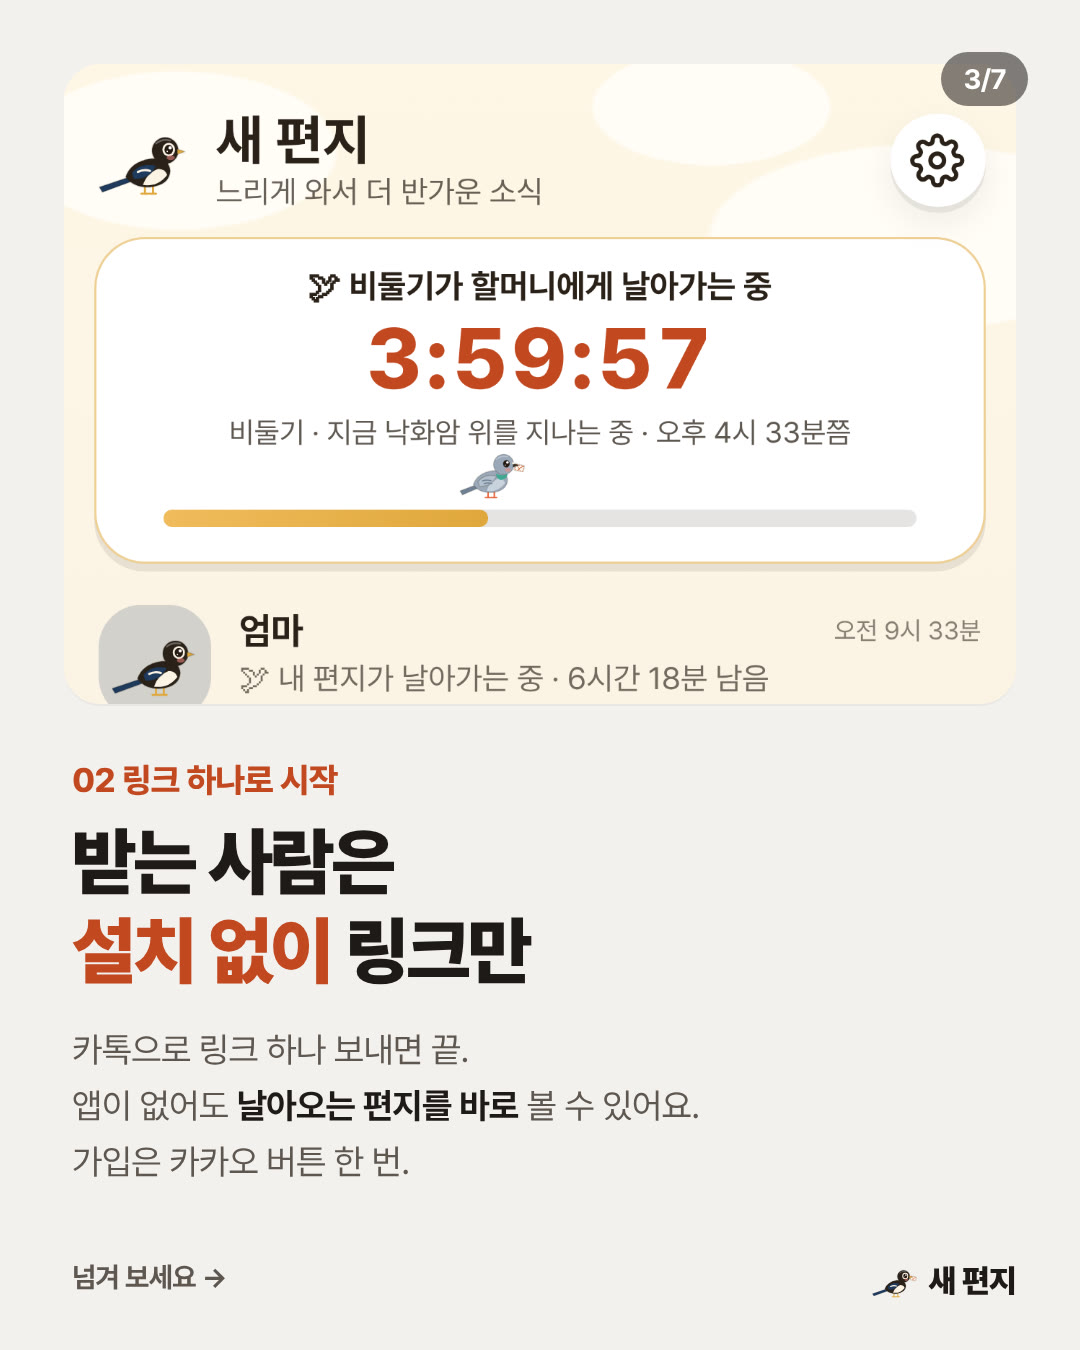
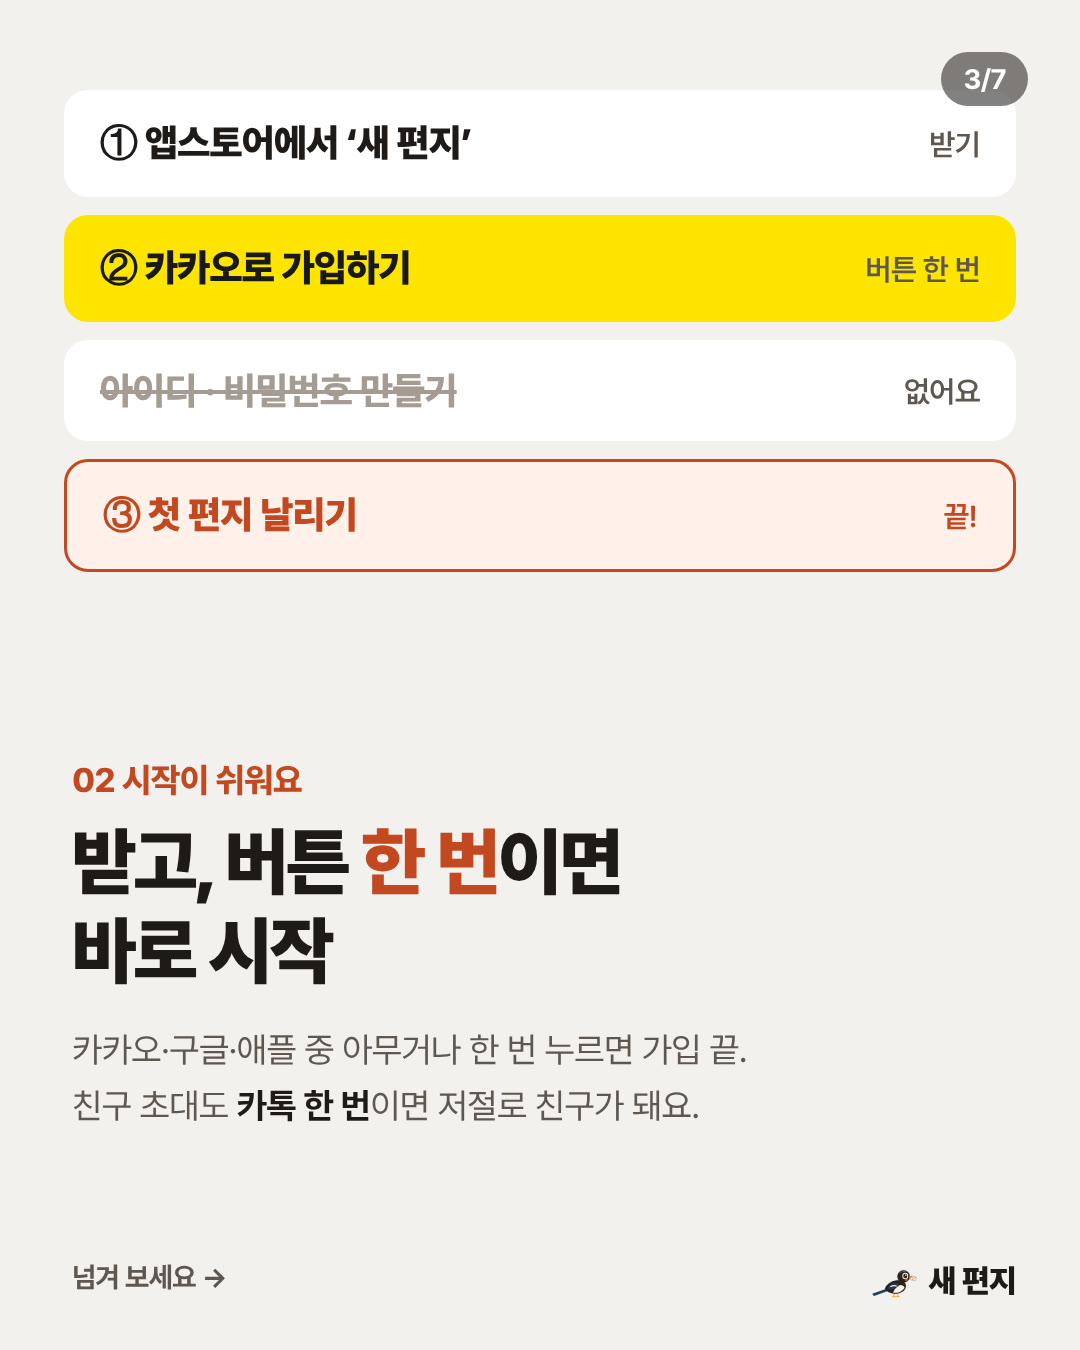
매일 점검 고침·탈퇴 시 폰 목록 지움·홍보 카드 '설치가 쉬워요' (#188)
* 처음 쓰기 편하게: 이름 화면 생략, 받는 곳 도시 버튼 한 번에, 첫 홈 카카오톡 초대·첫 편지 뒤 알림 묻기

Claude-Session: https://claude.ai/code/session_01GA1ocwaYjo7gRcQeBhuum6

* 받는 사람 흐름: 링크로 보고 로그인 한 번으로 내 편지함에 받기, 보낸 직후 카카오톡·문자로 알리기 창

- 임시 계정으로는 받는 사람 등록을 하지 않음(앱 깔고 카카오 로그인하면 편지가 없던 문제)
- 편지 화면에 '카카오로 받기'(구글·애플도), 받은 뒤 스토어 앱 받기 버튼
- 로그인 전에 본 편지는 기억했다가 로그인하면 홈에서 받음
- 앱 없는 사람에게 보낸 직후 한 번 '알려 주세요' 창(카카오톡·문자)

Claude-Session: https://claude.ai/code/session_01GA1ocwaYjo7gRcQeBhuum6

* 편지 링크 화면: 스토어 앱이 나오면 홈 화면 추가 카드 대신 앱 받기 하나만

Claude-Session: https://claude.ai/code/session_01GA1ocwaYjo7gRcQeBhuum6

* 첫 화면: 로그인 아래 '홈 화면에 추가'·'스토어에서 받기' 버튼, 애플 로그인은 아이폰에서만

Claude-Session: https://claude.ai/code/session_01GA1ocwaYjo7gRcQeBhuum6

* 기록: 받는 사람 흐름·첫 화면 버튼·처음 쓰기 편하게 반영

Claude-Session: https://claude.ai/code/session_01GA1ocwaYjo7gRcQeBhuum6

* 첫 화면: 스토어 받기 버튼을 폰에서 항상 보이게(출시 전엔 '곧 나와요' 안내)

Claude-Session: https://claude.ai/code/session_01GA1ocwaYjo7gRcQeBhuum6

* 안드로이드 스토어 버튼: 플레이 스토어 앱을 바로 여는 intent 주소(못 열면 웹 플레이로)

Claude-Session: https://claude.ai/code/session_01GA1ocwaYjo7gRcQeBhuum6

* 기록: 펜팔 유료(수락 시 결제)·성별 질문과 답

Claude-Session: https://claude.ai/code/session_01GA1ocwaYjo7gRcQeBhuum6

* 펜팔 우표 기획과 계산(첫 편지만·하루 1통 무료·답장 없으면 돌려줌)

Claude-Session: https://claude.ai/code/session_01GA1ocwaYjo7gRcQeBhuum6

* 아이폰 Firebase 설정 파일 추가, 구글 로그인 주소가 없어도 빌드되게

Claude-Session: https://claude.ai/code/session_01GA1ocwaYjo7gRcQeBhuum6

* 아이폰 구글 로그인용 클라이언트 ID를 Firebase 설정 파일에 추가
[…]

Changed region(s): [[0.0611, 0.0622, 0.9472, 0.5289], [0.0611, 0.56, 0.6722, 0.8711]]

diff --git a/promo/cards-src/car-03.html b/promo/cards-src/car-03.html
@@ -17,5 +17,9 @@ h1 em { font-style: normal; color: #C1481F; }
 .row { display: flex; align-items: center; justify-content: space-between; background: #fff; border-radius: 24px; padding: 28px 36px; font-size: 38px; font-weight: 800; margin-bottom: 18px; }
 .row span { font-size: 30px; font-weight: 600; color: #5E5750; }
 .row s { color: #A49B92; text-decoration-thickness: 4px; }
-</style></head><body><div class="count">3/7</div><div class="pic"><img src="file:///home/user/Bird-Letter/promo/store/ios-1-list.png" style="object-position:top"></div>
-   <div class="txt"><div class="eye">02 링크 하나로 시작</div><h1>받는 사람은<br><em>설치 없이</em> 링크만</h1><p class="body">카톡으로 링크 하나 보내면 끝.<br>앱이 없어도 <b>날아오는 편지를 바로</b> 볼 수 있어요.<br>가입은 카카오 버튼 한 번.</p></div><div class="swipe">넘겨 보세요 →</div><div class="brand"><svg viewBox="0 0 200 160" width="48" height="38.400000000000006" class="birdicon " aria-hidden="true" focusable="false" style="overflow:visible"><path d="M70 112 L10 132 L16 142 L76 120 Z" style="fill:#1E3A5C;stroke:var(--cb-rim, rgba(42,33,24,.2));stroke-width:2.6;stroke-linejoin:round"></path><path d="M100 124 v20 M93 145 h13 M116 122 v22 M109 145 h13" style="stroke:#E0A83C;stroke-width:4;stroke-linecap:round;stroke-linejoin:round;fill:none;opacity:1"></path><path d="M62 112 Q72 82 112 76 Q148 74 150 100 Q148 128 110 132 Q78 134 62 112 Z" style="fill:#2A2118;stroke:var(--cb-rim, rgba(42,33,24,.2));stroke-width:2.6;stroke-linejoin:round"></path><path d="M96 128 Q126 132 144 108 Q140 96 126 96 Q104 104 96 128 Z" fill="#FBF3E4"></path><path d="M74 104 Q92 82 122 90 Q108 118 78 116 Z" style="fill:#1E3A5C;stroke:var(--cb-rim, rgba(42,33,24,.2));stroke-width:2.6;stroke-linejoin:round"></path><path d="M86 102 Q98 96 110 100" style="stroke:#FBF3E4;stroke-width:4.5;stroke-linecap:round;stroke-linejoin:round;fill:none;opacity:1"></path><circle cx="140" cy="60" r="26" style="fill:#2A2118;stroke:var(--cb-rim, rgba(42,33,24,.2));stroke-width:2.6;stroke-linejoin:round"></circle><path d="M122 46 Q134 36 150 40" style="stroke:#fff;stroke-width:3.4;stroke-linecap:round;stroke-linejoin:round;fill:none;opacity:0.3"></path><ellipse cx="147" cy="58" rx="12.5" ry="13.350000000000001" fill="#FBF3E4"></ellipse><ellipse cx="147" cy="58" rx="8.5" ry="9.520000000000001" fill="#241a12"></ellipse><circle cx="149.72" cy="54.6" r="3.23" fill="#fff"></circle><circle cx="144.11" cy="61.74" r="1.445" fill="#fff"></circle><ellipse cx="151" cy="74" rx="8" ry="4.8" fill="#F28B82" opacity=".55"></ellipse><g transform="translate(168 66) rotate(12) scale(0.95)"><rect x="0" y="-9" width="26" height="18" rx="2.5" fill="#FFF9EC" style="stroke:var(--cb-rim, rgba(42,33,24,.2));stroke-width:2.6;stroke-linejoin:round"></rect><rect x="1.8" y="-7.2" width="22.4" height="14.4" rx="1.5" fill="none" stroke="#C1481F" stroke-width="1.6" stroke-dasharray="3.5 3"></rect><path d="M2 -7 L13 1.5 L24 -7" fill="none" stroke="#C1481F" stroke-width="1.6" stroke-linejoin="round"></path><path d="M13 6.4 C9.6 3.8 11.2 1.2 13 2.8 C14.8 1.2 16.4 3.8 13 6.4 Z" fill="#C1481F"></path></g><path d="M164 57 L179 62 L164 67 Z" style="fill:#E0A83C;stroke:var(--cb-rim, rgba(42,33,24,.2));stroke-width:2.6;stroke-linejoin:round"></path></svg>새 편지</div></body></html>
+</style></head><body><div class="count">3/7</div><div style="position:absolute;left:64px;right:64px;top:90px">
+     <div class="row"><b>① 앱스토어에서 ‘새 편지’</b><span>받기</span></div>
+     <div class="row" style="background:#FEE500;color:#191919"><b>② 카카오로 가입하기</b><span>버튼 한 번</span></div>
+     <div class="row"><s>아이디 · 비밀번호 만들기</s><span>없어요</span></div>
+     <div class="row" style="background:#FFF1EA;border:3px solid #C1481F"><b style="color:#C1481F">③ 첫 편지 날리기</b><span style="color:#C1481F">끝!</span></div></div>
+   <div class="txt"><div class="eye">02 시작이 쉬워요</div><h1>받고, 버튼 <em>한 번</em>이면<br>바로 시작</h1><p class="body">카카오·구글·애플 중 아무거나 한 번 누르면 가입 끝.<br>친구 초대도 <b>카톡 한 번</b>이면 저절로 친구가 돼요.</p></div><div class="swipe">넘겨 보세요 →</div><div class="brand"><svg viewBox="0 0 200 160" width="48" height="38.400000000000006" class="birdicon " aria-hidden="true" focusable="false" style="overflow:visible"><path d="M70 112 L10 132 L16 142 L76 120 Z" style="fill:#1E3A5C;stroke:var(--cb-rim, rgba(42,33,24,.2));stroke-width:2.6;stroke-linejoin:round"></path><path d="M100 124 v20 M93 145 h13 M116 122 v22 M109 145 h13" style="stroke:#E0A83C;stroke-width:4;stroke-linecap:round;stroke-linejoin:round;fill:none;opacity:1"></path><path d="M62 112 Q72 82 112 76 Q148 74 150 100 Q148 128 110 132 Q78 134 62 112 Z" style="fill:#2A2118;stroke:var(--cb-rim, rgba(42,33,24,.2));stroke-width:2.6;stroke-linejoin:round"></path><path d="M96 128 Q126 132 144 108 Q140 96 126 96 Q104 104 96 128 Z" fill="#FBF3E4"></path><path d="M74 104 Q92 82 122 90 Q108 118 78 116 Z" style="fill:#1E3A5C;stroke:var(--cb-rim, rgba(42,33,24,.2));stroke-width:2.6;stroke-linejoin:round"></path><path d="M86 102 Q98 96 110 100" style="stroke:#FBF3E4;stroke-width:4.5;stroke-linecap:round;stroke-linejoin:round;fill:none;opacity:1"></path><circle cx="140" cy="60" r="26" style="fill:#2A2118;stroke:var(--cb-rim, rgba(42,33,24,.2));stroke-width:2.6;stroke-linejoin:round"></circle><path d="M122 46 Q134 36 150 40" style="stroke:#fff;stroke-width:3.4;stroke-linecap:round;stroke-linejoin:round;fill:none;opacity:0.3"></path><ellipse cx="147" cy="58" rx="12.5" ry="13.350000000000001" fill="#FBF3E4"></ellipse><ellipse cx="147" cy="58" rx="8.5" ry="9.520000000000001" fill="#241a12"></ellipse><circle cx="149.72" cy="54.6" r="3.23" fill="#fff"></circle><circle cx="144.11" cy="61.74" r="1.445" fill="#fff"></circle><ellipse cx="151" cy="74" rx="8" ry="4.8" fill="#F28B82" opacity=".55"></ellipse><g transform="translate(168 66) rotate(12) scale(0.95)"><rect x="0" y="-9" width="26" height="18" rx="2.5" fill="#FFF9EC" style="stroke:var(--cb-rim, rgba(42,33,24,.2));stroke-width:2.6;stroke-linejoin:round"></rect><rect x="1.8" y="-7.2" width="22.4" height="14.4" rx="1.5" fill="none" stroke="#C1481F" stroke-width="1.6" stroke-dasharray="3.5 3"></rect><path d="M2 -7 L13 1.5 L24 -7" fill="none" stroke="#C1481F" stroke-width="1.6" stroke-linejoin="round"></path><path d="M13 6.4 C9.6 3.8 11.2 1.2 13 2.8 C14.8 1.2 16.4 3.8 13 6.4 Z" fill="#C1481F"></path></g><path d="M164 57 L179 62 L164 67 Z" style="fill:#E0A83C;stroke:var(--cb-rim, rgba(42,33,24,.2));stroke-width:2.6;stroke-linejoin:round"></path></svg>새 편지</div></body></html>

diff --git a/src/app/settings/page.tsx b/src/app/settings/page.tsx
@@ -1,5 +1,6 @@
 "use client";
 import { quickPosition } from "@/lib/fastGeo";
+import { clearFastCache } from "@/lib/fastStart";
 import Link from "next/link";
 import { useRouter } from "next/navigation";
 import { useEffect, useState } from "react";
@@ -91,6 +92,7 @@ export default function Settings() {
     try {
       if (server && (await remote.deleteMyData()) === "cancelled") { setMsg("애플 확인을 취소해서 계정 삭제를 멈췄어요."); return; }
       localStorage.removeItem(LETTERS_KEY);
+      if (server) clearFastCache(); // 폰에 적어 둔 편지·친구 목록도 같이 지워요(안 지우면 탈퇴 뒤 홈에 예전 편지가 잠깐 보여요)
     } catch {
       setMsg("삭제하지 못했어요. 인터넷 연결을 확인하고 다시 시도해 주세요.");
       return;
